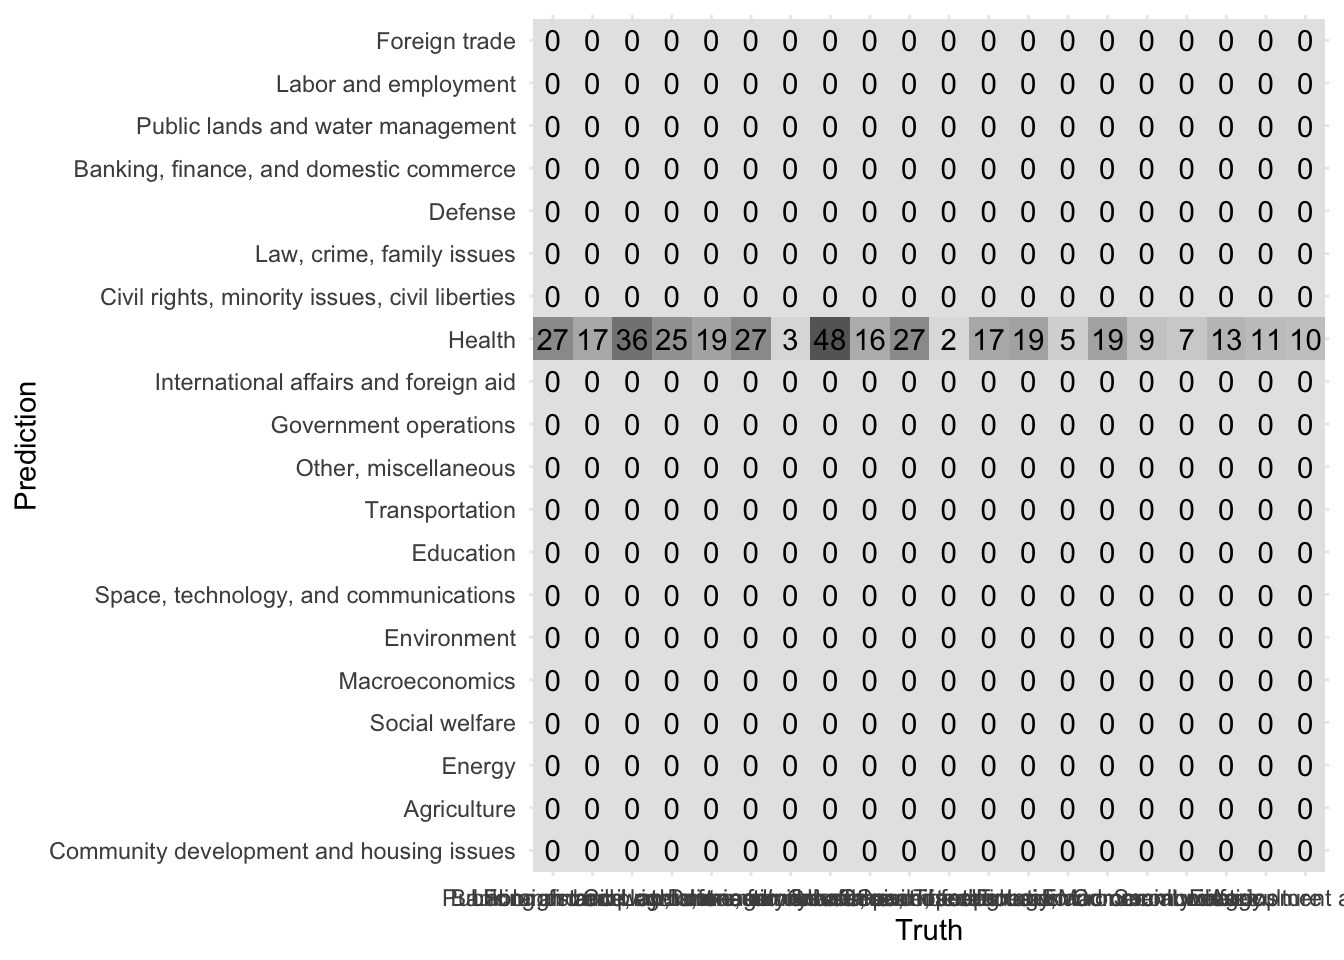
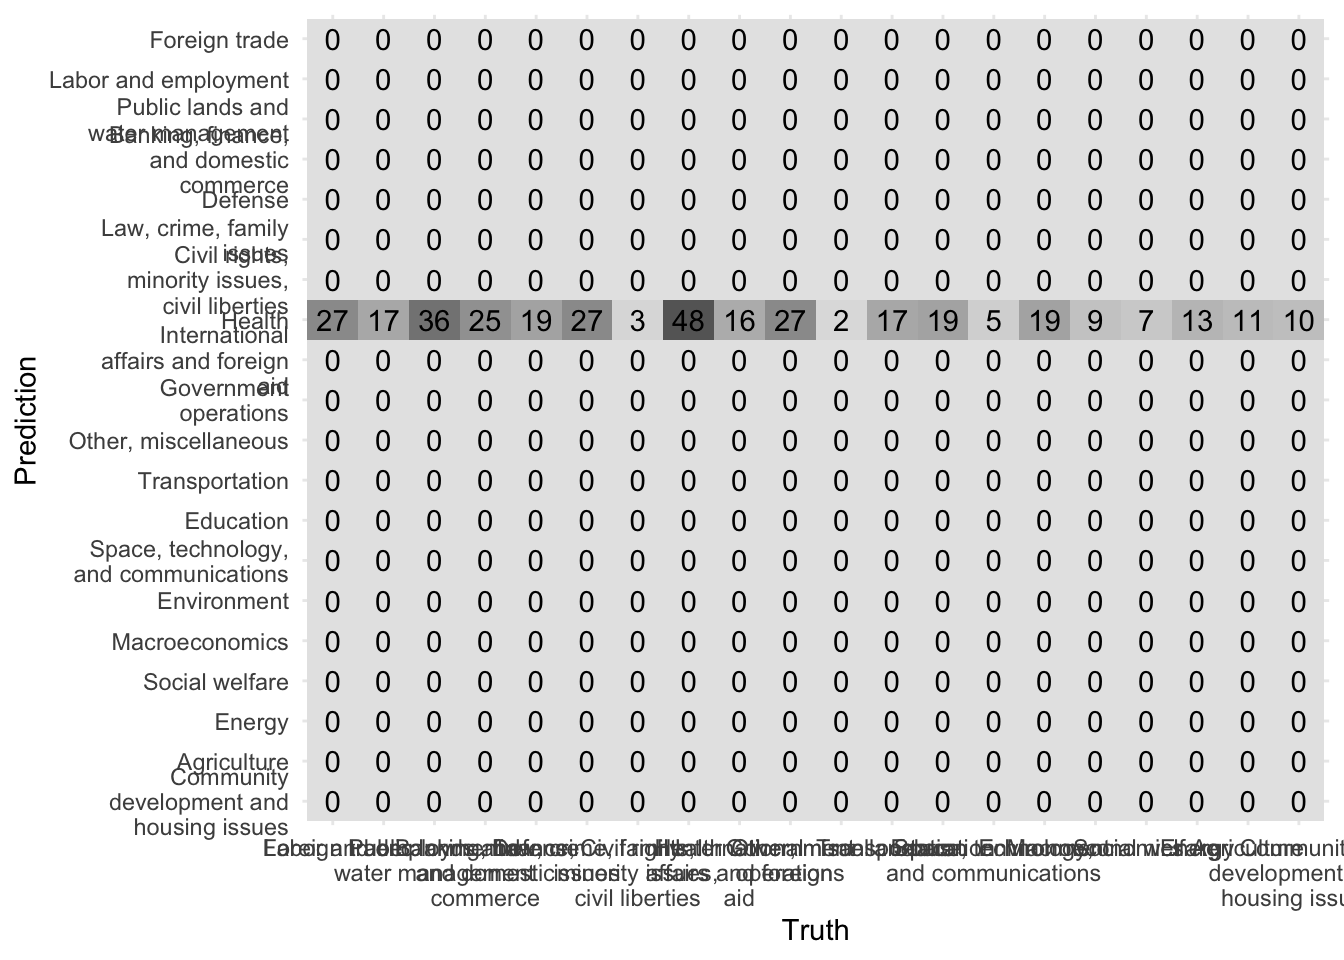
Adjust font size on plot

diff --git a/content/notes/supervised-text-classification/index.md b/content/notes/supervised-text-classification/index.md
@@ -404,7 +404,9 @@ Another way to evaluate our model is to evaluate the [confusion matrix](https://
 nb_cv_predictions %>%
   filter(id == "Fold01") %>%
   conf_mat(major, .pred_class) %>%
-  autoplot(type = "heatmap")
+  autoplot(type = "heatmap") +
+  scale_y_discrete(labels = function(x) str_wrap(x, 20)) +
+  scale_x_discrete(labels = function(x) str_wrap(x, 20))
 ```
 
 <img src="{{< blogdown/postref >}}index_files/figure-html/nb-confusion-1.png" width="672" />
@@ -694,161 +696,164 @@ devtools::session_info()
 ```
 ## ─ Session info ───────────────────────────────────────────────────────────────
 ##  setting  value                       
-##  version  R version 4.0.3 (2020-10-10)
-##  os       macOS Catalina 10.15.7      
+##  version  R version 4.0.4 (2021-02-15)
+##  os       macOS Big Sur 10.16         
 ##  system   x86_64, darwin17.0          
 ##  ui       X11                         
 ##  language (EN)                        
 ##  collate  en_US.UTF-8                 
 ##  ctype    en_US.UTF-8                 
 ##  tz       America/Chicago             
-##  date     2021-03-01                  
+##  date     2021-03-10                  
 ## 
 ## ─ Packages ───────────────────────────────────────────────────────────────────
-##  package      * version    date       lib source                              
-##  assertthat     0.2.1      2019-03-21 [1] CRAN (R 4.0.0)                      
-##  backports      1.2.1      2020-12-09 [1] CRAN (R 4.0.2)                      
-##  BBmisc         1.11       2017-03-10 [1] CRAN (R 4.0.0)                      
-##  blogdown       1.1        2021-01-19 [1] CRAN (R 4.0.3)                      
-##  bookdown       0.21       2020-10-13 [1] CRAN (R 4.0.2)                      
-##  broom        * 0.7.3      2020-12-16 [1] CRAN (R 4.0.2)                      
-##  callr          3.5.1      2020-10-13 [1] CRAN (R 4.0.2)                      
-##  caret        * 6.0-86     2020-03-20 [1] CRAN (R 4.0.0)                      
-##  cellranger     1.1.0      2016-07-27 [1] CRAN (R 4.0.0)                      
-##  checkmate      2.0.0      2020-02-06 [1] CRAN (R 4.0.0)                      
-##  class          7.3-17     2020-04-26 [1] CRAN (R 4.0.3)                      
-##  cli            2.3.1      2021-02-23 [1] CRAN (R 4.0.3)                      
-##  codetools      0.2-18     2020-11-04 [1] CRAN (R 4.0.2)                      
-##  colorspace     2.0-0      2020-11-11 [1] CRAN (R 4.0.2)                      
-##  crayon         1.4.1      2021-02-08 [1] CRAN (R 4.0.2)                      
-##  data.table     1.13.6     2020-12-30 [1] CRAN (R 4.0.2)                      
-##  DBI            1.1.0      2019-12-15 [1] CRAN (R 4.0.0)                      
-##  dbplyr         2.0.0      2020-11-03 [1] CRAN (R 4.0.2)                      
-##  debugme        1.1.0      2017-10-22 [1] CRAN (R 4.0.0)                      
-##  desc           1.2.0      2018-05-01 [1] CRAN (R 4.0.0)                      
-##  devtools       2.3.2      2020-09-18 [1] CRAN (R 4.0.2)                      
-##  dials        * 0.0.9      2020-09-16 [1] CRAN (R 4.0.2)                      
-##  DiceDesign     1.8-1      2019-07-31 [1] CRAN (R 4.0.0)                      
-##  digest         0.6.27     2020-10-24 [1] CRAN (R 4.0.2)                      
-##  discrim      * 0.1.1      2020-10-28 [1] CRAN (R 4.0.2)                      
-##  doParallel     1.0.16     2020-10-16 [1] CRAN (R 4.0.2)                      
-##  dplyr        * 1.0.4      2021-02-02 [1] CRAN (R 4.0.2)                      
-##  ellipsis       0.3.1      2020-05-15 [1] CRAN (R 4.0.0)                      
-##  evaluate       0.14       2019-05-28 [1] CRAN (R 4.0.0)                      
-##  fansi          0.4.2      2021-01-15 [1] CRAN (R 4.0.2)                      
-##  farver         2.0.3      2020-01-16 [1] CRAN (R 4.0.0)                      
-##  fastmatch      1.1-0      2017-01-28 [1] CRAN (R 4.0.0)                      
-##  FNN            1.1.3      2019-02-15 [1] CRAN (R 4.0.0)                      
-##  forcats      * 0.5.0      2020-03-01 [1] CRAN (R 4.0.0)                      
-##  foreach        1.5.1      2020-10-15 [1] CRAN (R 4.0.2)                      
-##  fs             1.5.0      2020-07-31 [1] CRAN (R 4.0.2)                      
-##  furrr          0.2.1      2020-10-21 [1] CRAN (R 4.0.2)                      
-##  future         1.21.0     2020-12-10 [1] CRAN (R 4.0.2)                      
-##  generics       0.1.0      2020-10-31 [1] CRAN (R 4.0.2)                      
-##  ggplot2      * 3.3.3      2020-12-30 [1] CRAN (R 4.0.2)                      
-##  globals        0.14.0     2020-11-22 [1] CRAN (R 4.0.2)                      
-##  glue           1.4.2      2020-08-27 [1] CRAN (R 4.0.2)                      
-##  gower          0.2.2      2020-06-23 [1] CRAN (R 4.0.2)                      
-##  GPfit          1.0-8      2019-02-08 [1] CRAN (R 4.0.0)                      
-##  gtable         0.3.0      2019-03-25 [1] CRAN (R 4.0.0)                      
-##  hardhat        0.1.5      2020-11-09 [1] CRAN (R 4.0.2)                      
-##  haven          2.3.1      2020-06-01 [1] CRAN (R 4.0.0)                      
-##  here           1.0.1      2020-12-13 [1] CRAN (R 4.0.2)                      
-##  highr          0.8        2019-03-20 [1] CRAN (R 4.0.0)                      
-##  hms            0.5.3      2020-01-08 [1] CRAN (R 4.0.0)                      
-##  htmltools      0.5.1.1    2021-01-22 [1] CRAN (R 4.0.2)                      
-##  httr           1.4.2      2020-07-20 [1] CRAN (R 4.0.2)                      
-##  infer        * 0.5.3      2020-07-14 [1] CRAN (R 4.0.2)                      
-##  ipred          0.9-9      2019-04-28 [1] CRAN (R 4.0.0)                      
-##  iterators      1.0.13     2020-10-15 [1] CRAN (R 4.0.2)                      
-##  janeaustenr    0.1.5      2017-06-10 [1] CRAN (R 4.0.0)                      
-##  jsonlite       1.7.2      2020-12-09 [1] CRAN (R 4.0.2)                      
-##  knitr          1.31       2021-01-27 [1] CRAN (R 4.0.2)                      
-##  labeling       0.4.2      2020-10-20 [1] CRAN (R 4.0.2)                      
-##  lattice      * 0.20-41    2020-04-02 [1] CRAN (R 4.0.3)                      
-##  lava           1.6.8.1    2020-11-04 [1] CRAN (R 4.0.2)                      
-##  lhs            1.1.1      2020-10-05 [1] CRAN (R 4.0.2)                      
-##  lifecycle      1.0.0      2021-02-15 [1] CRAN (R 4.0.2)                      
-##  liquidSVM    * 1.2.4      2019-09-14 [1] CRAN (R 4.0.3)                      
-##  listenv        0.8.0      2019-12-05 [1] CRAN (R 4.0.0)                      
-##  lubridate      1.7.9.2    2021-01-18 [1] Github (tidyverse/lubridate@aab2e30)
-##  magrittr       2.0.1      2020-11-17 [1] CRAN (R 4.0.2)                      
-##  MASS           7.3-53     2020-09-09 [1] CRAN (R 4.0.3)                      
-##  Matrix         1.3-0      2020-12-22 [1] CRAN (R 4.0.2)                      
-##  memoise        1.1.0      2017-04-21 [1] CRAN (R 4.0.0)                      
-##  mlr            2.18.0     2020-10-05 [1] CRAN (R 4.0.2)                      
-##  modeldata    * 0.1.0      2020-10-22 [1] CRAN (R 4.0.2)                      
-##  ModelMetrics   1.2.2.2    2020-03-17 [1] CRAN (R 4.0.0)                      
-##  modelr         0.1.8      2020-05-19 [1] CRAN (R 4.0.0)                      
-##  munsell        0.5.0      2018-06-12 [1] CRAN (R 4.0.0)                      
-##  naivebayes   * 0.9.7      2020-03-08 [1] CRAN (R 4.0.0)                      
-##  nlme           3.1-151    2020-12-10 [1] CRAN (R 4.0.2)                      
-##  NLP          * 0.2-1      2020-10-14 [1] CRAN (R 4.0.2)                      
-##  nnet           7.3-14     2020-04-26 [1] CRAN (R 4.0.3)                      
-##  parallelly     1.22.0     2020-12-13 [1] CRAN (R 4.0.2)                      
-##  parallelMap    1.5.0      2020-03-26 [1] CRAN (R 4.0.0)                      
-##  ParamHelpers   1.14       2020-03-24 [1] CRAN (R 4.0.0)                      
-##  parsnip      * 0.1.4      2020-10-27 [1] CRAN (R 4.0.2)                      
-##  pillar         1.5.0      2021-02-22 [1] CRAN (R 4.0.3)                      
-##  pkgbuild       1.2.0      2020-12-15 [1] CRAN (R 4.0.2)                      
-##  pkgconfig      2.0.3      2019-09-22 [1] CRAN (R 4.0.0)                      
-##  pkgload        1.1.0      2020-05-29 [1] CRAN (R 4.0.2)                      
-##  plyr           1.8.6      2020-03-03 [1] CRAN (R 4.0.0)                      
-##  prettyunits    1.1.1      2020-01-24 [1] CRAN (R 4.0.0)                      
-##  pROC           1.16.2     2020-03-19 [1] CRAN (R 4.0.0)                      
-##  processx       3.4.5      2020-11-30 [1] CRAN (R 4.0.2)                      
-##  prodlim        2019.11.13 2019-11-17 [1] CRAN (R 4.0.0)                      
-##  ps             1.5.0      2020-12-05 [1] CRAN (R 4.0.2)                      
-##  purrr        * 0.3.4      2020-04-17 [1] CRAN (R 4.0.0)                      
-##  R6             2.5.0      2020-10-28 [1] CRAN (R 4.0.2)                      
-##  RANN           2.6.1      2019-01-08 [1] CRAN (R 4.0.0)                      
-##  Rcpp           1.0.6      2021-01-15 [1] CRAN (R 4.0.2)                      
-##  readr        * 1.4.0      2020-10-05 [1] CRAN (R 4.0.2)                      
-##  readxl         1.3.1      2019-03-13 [1] CRAN (R 4.0.0)                      
-##  recipes      * 0.1.15     2020-11-11 [1] CRAN (R 4.0.2)                      
-##  remotes        2.2.0      2020-07-21 [1] CRAN (R 4.0.2)                      
-##  reprex         1.0.0      2021-01-27 [1] CRAN (R 4.0.2)                      
-##  reshape2       1.4.4      2020-04-09 [1] CRAN (R 4.0.0)                      
-##  rlang        * 0.4.10     2020-12-30 [1] CRAN (R 4.0.2)                      
-##  rmarkdown      2.6        2020-12-14 [1] CRAN (R 4.0.2)                      
-##  ROSE           0.0-3      2014-07-15 [1] CRAN (R 4.0.2)                      
-##  rpart          4.1-15     2019-04-12 [1] CRAN (R 4.0.3)                      
-##  rprojroot      2.0.2      2020-11-15 [1] CRAN (R 4.0.2)                      
-##  rsample      * 0.0.8      2020-09-23 [1] CRAN (R 4.0.2)                      
-##  rstudioapi     0.13       2020-11-12 [1] CRAN (R 4.0.2)                      
-##  rvest          0.3.6      2020-07-25 [1] CRAN (R 4.0.2)                      
-##  scales       * 1.1.1      2020-05-11 [1] CRAN (R 4.0.0)                      
-##  sessioninfo    1.1.1      2018-11-05 [1] CRAN (R 4.0.0)                      
-##  slam           0.1-48     2020-12-03 [1] CRAN (R 4.0.2)                      
-##  SnowballC      0.7.0      2020-04-01 [1] CRAN (R 4.0.0)                      
-##  stopwords    * 2.1        2020-12-08 [1] CRAN (R 4.0.2)                      
-##  stringi        1.5.3      2020-09-09 [1] CRAN (R 4.0.2)                      
-##  stringr      * 1.4.0      2019-02-10 [1] CRAN (R 4.0.0)                      
-##  survival       3.2-7      2020-09-28 [1] CRAN (R 4.0.3)                      
-##  testthat       3.0.2      2021-02-14 [1] CRAN (R 4.0.2)                      
-##  textrecipes  * 0.4.0      2020-11-12 [1] CRAN (R 4.0.2)                      
-##  themis       * 0.1.3      2020-11-12 [1] CRAN (R 4.0.2)                      
-##  tibble       * 3.0.6      2021-01-29 [1] CRAN (R 4.0.2)                      
-##  tictoc       * 1.0        2014-06-17 [1] CRAN (R 4.0.0)                      
-##  tidymodels   * 0.1.2      2020-11-22 [1] CRAN (R 4.0.2)                      
-##  tidyr        * 1.1.2      2020-08-27 [1] CRAN (R 4.0.2)                      
-##  tidyselect     1.1.0      2020-05-11 [1] CRAN (R 4.0.0)                      
-##  tidytext     * 0.2.6      2020-09-20 [1] CRAN (R 4.0.2)                      
-##  tidyverse    * 1.3.0      2019-11-21 [1] CRAN (R 4.0.0)                      
-##  timeDate       3043.102   2018-02-21 [1] CRAN (R 4.0.0)                      
-##  tm           * 0.7-8      2020-11-18 [1] CRAN (R 4.0.2)                      
-##  tokenizers     0.2.1      2018-03-29 [1] CRAN (R 4.0.0)                      
-##  tune         * 0.1.2      2020-11-17 [1] CRAN (R 4.0.2)                      
-##  unbalanced     2.0        2015-06-26 [1] CRAN (R 4.0.2)                      
-##  usethis        2.0.0      2020-12-10 [1] CRAN (R 4.0.2)                      
-##  utf8           1.1.4      2018-05-24 [1] CRAN (R 4.0.0)                      
-##  vctrs        * 0.3.6      2020-12-17 [1] CRAN (R 4.0.2)                      
-##  withr          2.4.1      2021-01-26 [1] CRAN (R 4.0.2)                      
-##  workflows    * 0.2.1      2020-10-08 [1] CRAN (R 4.0.2)                      
-##  xfun           0.21       2021-02-10 [1] CRAN (R 4.0.2)                      
-##  xml2           1.3.2      2020-04-23 [1] CRAN (R 4.0.0)                      
-##  yaml           2.2.1      2020-02-01 [1] CRAN (R 4.0.0)                      
-##  yardstick    * 0.0.7      2020-07-13 [1] CRAN (R 4.0.2)                      
+##  package      * version    date       lib source        
+##  assertthat     0.2.1      2019-03-21 [1] CRAN (R 4.0.0)
+##  backports      1.2.1      2020-12-09 [1] CRAN (R 4.0.2)
+##  BBmisc         1.11       2017-03-10 [1] CRAN (R 4.0.0)
+##  blogdown       1.2        2021-03-04 [1] CRAN (R 4.0.3)
+##  bookdown       0.21       2020-10-13 [1] CRAN (R 4.0.2)
+##  broom        * 0.7.5      2021-02-19 [1] CRAN (R 4.0.2)
+##  bslib          0.2.4      2021-01-25 [1] CRAN (R 4.0.2)
+##  cachem         1.0.4      2021-02-13 [1] CRAN (R 4.0.2)
+##  callr          3.5.1      2020-10-13 [1] CRAN (R 4.0.2)
+##  caret        * 6.0-86     2020-03-20 [1] CRAN (R 4.0.0)
+##  cellranger     1.1.0      2016-07-27 [1] CRAN (R 4.0.0)
+##  checkmate      2.0.0      2020-02-06 [1] CRAN (R 4.0.0)
+##  class          7.3-18     2021-01-24 [1] CRAN (R 4.0.4)
+##  cli            2.3.1      2021-02-23 [1] CRAN (R 4.0.3)
+##  codetools      0.2-18     2020-11-04 [1] CRAN (R 4.0.4)
+##  colorspace     2.0-0      2020-11-11 [1] CRAN (R 4.0.2)
+##  crayon         1.4.1      2021-02-08 [1] CRAN (R 4.0.2)
+##  data.table     1.14.0     2021-02-21 [1] CRAN (R 4.0.2)
+##  DBI            1.1.1      2021-01-15 [1] CRAN (R 4.0.2)
+##  dbplyr         2.1.0      2021-02-03 [1] CRAN (R 4.0.2)
+##  debugme        1.1.0      2017-10-22 [1] CRAN (R 4.0.0)
+##  desc           1.2.0      2018-05-01 [1] CRAN (R 4.0.0)
+##  devtools       2.3.2      2020-09-18 [1] CRAN (R 4.0.2)
+##  dials        * 0.0.9      2020-09-16 [1] CRAN (R 4.0.2)
+##  DiceDesign     1.9        2021-02-13 [1] CRAN (R 4.0.2)
+##  digest         0.6.27     2020-10-24 [1] CRAN (R 4.0.2)
+##  discrim      * 0.1.1      2020-10-28 [1] CRAN (R 4.0.2)
+##  doParallel     1.0.16     2020-10-16 [1] CRAN (R 4.0.2)
+##  dplyr        * 1.0.5      2021-03-05 [1] CRAN (R 4.0.3)
+##  ellipsis       0.3.1      2020-05-15 [1] CRAN (R 4.0.0)
+##  evaluate       0.14       2019-05-28 [1] CRAN (R 4.0.0)
+##  fansi          0.4.2      2021-01-15 [1] CRAN (R 4.0.2)
+##  farver         2.1.0      2021-02-28 [1] CRAN (R 4.0.2)
+##  fastmap        1.1.0      2021-01-25 [1] CRAN (R 4.0.2)
+##  fastmatch      1.1-0      2017-01-28 [1] CRAN (R 4.0.0)
+##  FNN            1.1.3      2019-02-15 [1] CRAN (R 4.0.0)
+##  forcats      * 0.5.1      2021-01-27 [1] CRAN (R 4.0.2)
+##  foreach        1.5.1      2020-10-15 [1] CRAN (R 4.0.2)
+##  fs             1.5.0      2020-07-31 [1] CRAN (R 4.0.2)
+##  furrr          0.2.2      2021-01-29 [1] CRAN (R 4.0.2)
+##  future         1.21.0     2020-12-10 [1] CRAN (R 4.0.2)
+##  generics       0.1.0      2020-10-31 [1] CRAN (R 4.0.2)
+##  ggplot2      * 3.3.3      2020-12-30 [1] CRAN (R 4.0.2)
+##  globals        0.14.0     2020-11-22 [1] CRAN (R 4.0.2)
+##  glue           1.4.2      2020-08-27 [1] CRAN (R 4.0.2)
+##  gower          0.2.2      2020-06-23 [1] CRAN (R 4.0.2)
+##  GPfit          1.0-8      2019-02-08 [1] CRAN (R 4.0.0)
+##  gtable         0.3.0      2019-03-25 [1] CRAN (R 4.0.0)
+##  haven          2.3.1      2020-06-01 [1] CRAN (R 4.0.0)
+##  here           1.0.1      2020-12-13 [1] CRAN (R 4.0.2)
+##  highr          0.8        2019-03-20 [1] CRAN (R 4.0.0)
+##  hms            1.0.0      2021-01-13 [1] CRAN (R 4.0.2)
+##  htmltools      0.5.1.1    2021-01-22 [1] CRAN (R 4.0.2)
+##  httr           1.4.2      2020-07-20 [1] CRAN (R 4.0.2)
+##  infer        * 0.5.4      2021-01-13 [1] CRAN (R 4.0.2)
+##  ipred          0.9-10     2021-03-04 [1] CRAN (R 4.0.2)
+##  iterators      1.0.13     2020-10-15 [1] CRAN (R 4.0.2)
+##  janeaustenr    0.1.5      2017-06-10 [1] CRAN (R 4.0.0)
+##  jquerylib      0.1.3      2020-12-17 [1] CRAN (R 4.0.2)
+##  jsonlite       1.7.2      2020-12-09 [1] CRAN (R 4.0.2)
+##  knitr          1.31       2021-01-27 [1] CRAN (R 4.0.2)
+##  lattice      * 0.20-41    2020-04-02 [1] CRAN (R 4.0.4)
+##  lava           1.6.8.1    2020-11-04 [1] CRAN (R 4.0.2)
+##  lhs            1.1.1      2020-10-05 [1] CRAN (R 4.0.2)
+##  lifecycle      1.0.0      2021-02-15 [1] CRAN (R 4.0.2)
+##  liquidSVM    * 1.2.4      2019-09-14 [1] CRAN (R 4.0.3)
+##  listenv        0.8.0      2019-12-05 [1] CRAN (R 4.0.0)
+##  lubridate      1.7.10     2021-02-26 [1] CRAN (R 4.0.2)
+##  magrittr       2.0.1      2020-11-17 [1] CRAN (R 4.0.2)
+##  MASS           7.3-53     2020-09-09 [1] CRAN (R 4.0.4)
+##  Matrix         1.3-2      2021-01-06 [1] CRAN (R 4.0.4)
+##  memoise        2.0.0      2021-01-26 [1] CRAN (R 4.0.2)
+##  mlr            2.19.0     2021-02-22 [1] CRAN (R 4.0.2)
+##  modeldata    * 0.1.0      2020-10-22 [1] CRAN (R 4.0.2)
+##  ModelMetrics   1.2.2.2    2020-03-17 [1] CRAN (R 4.0.0)
+##  modelr         0.1.8      2020-05-19 [1] CRAN (R 4.0.0)
+##  munsell        0.5.0      2018-06-12 [1] CRAN (R 4.0.0)
+##  naivebayes   * 0.9.7      2020-03-08 [1] CRAN (R 4.0.0)
+##  nlme           3.1-152    2021-02-04 [1] CRAN (R 4.0.4)
+##  NLP          * 0.2-1      2020-10-14 [1] CRAN (R 4.0.2)
+##  nnet           7.3-15     2021-01-24 [1] CRAN (R 4.0.4)
+##  parallelly     1.23.0     2021-01-04 [1] CRAN (R 4.0.2)
+##  parallelMap    1.5.0      2020-03-26 [1] CRAN (R 4.0.0)
+##  ParamHelpers   1.14       2020-03-24 [1] CRAN (R 4.0.0)
+##  parsnip      * 0.1.5      2021-01-19 [1] CRAN (R 4.0.2)
+##  pillar         1.5.1      2021-03-05 [1] CRAN (R 4.0.3)
+##  pkgbuild       1.2.0      2020-12-15 [1] CRAN (R 4.0.2)
+##  pkgconfig      2.0.3      2019-09-22 [1] CRAN (R 4.0.0)
+##  pkgload        1.2.0      2021-02-23 [1] CRAN (R 4.0.2)
+##  plyr           1.8.6      2020-03-03 [1] CRAN (R 4.0.0)
+##  prettyunits    1.1.1      2020-01-24 [1] CRAN (R 4.0.0)
+##  pROC           1.17.0.1   2021-01-13 [1] CRAN (R 4.0.2)
+##  processx       3.4.5      2020-11-30 [1] CRAN (R 4.0.2)
+##  prodlim        2019.11.13 2019-11-17 [1] CRAN (R 4.0.0)
+##  ps             1.6.0      2021-02-28 [1] CRAN (R 4.0.2)
+##  purrr        * 0.3.4      2020-04-17 [1] CRAN (R 4.0.0)
+##  R6             2.5.0      2020-10-28 [1] CRAN (R 4.0.2)
+##  RANN           2.6.1      2019-01-08 [1] CRAN (R 4.0.0)
+##  Rcpp           1.0.6      2021-01-15 [1] CRAN (R 4.0.2)
+##  readr        * 1.4.0      2020-10-05 [1] CRAN (R 4.0.2)
+##  readxl         1.3.1      2019-03-13 [1] CRAN (R 4.0.0)
+##  recipes      * 0.1.15     2020-11-11 [1] CRAN (R 4.0.2)
+##  remotes        2.2.0      2020-07-21 [1] CRAN (R 4.0.2)
+##  reprex         1.0.0      2021-01-27 [1] CRAN (R 4.0.2)
+##  reshape2       1.4.4      2020-04-09 [1] CRAN (R 4.0.0)
+##  rlang        * 0.4.10     2020-12-30 [1] CRAN (R 4.0.2)
+##  rmarkdown      2.7        2021-02-19 [1] CRAN (R 4.0.2)
+##  ROSE           0.0-3      2014-07-15 [1] CRAN (R 4.0.2)
+##  rpart          4.1-15     2019-04-12 [1] CRAN (R 4.0.4)
+##  rprojroot      2.0.2      2020-11-15 [1] CRAN (R 4.0.2)
+##  rsample      * 0.0.9      2021-02-17 [1] CRAN (R 4.0.2)
+##  rstudioapi     0.13       2020-11-12 [1] CRAN (R 4.0.2)
+##  rvest          0.3.6      2020-07-25 [1] CRAN (R 4.0.2)
+##  sass           0.3.1      2021-01-24 [1] CRAN (R 4.0.2)
+##  scales       * 1.1.1      2020-05-11 [1] CRAN (R 4.0.0)
+##  sessioninfo    1.1.1      2018-11-05 [1] CRAN (R 4.0.0)
+##  slam           0.1-48     2020-12-03 [1] CRAN (R 4.0.2)
+##  SnowballC      0.7.0      2020-04-01 [1] CRAN (R 4.0.0)
+##  stopwords    * 2.2        2021-02-10 [1] CRAN (R 4.0.2)
+##  stringi        1.5.3      2020-09-09 [1] CRAN (R 4.0.2)
+##  stringr      * 1.4.0      2019-02-10 [1] CRAN (R 4.0.0)
+##  survival       3.2-7      2020-09-28 [1] CRAN (R 4.0.4)
+##  testthat       3.0.2      2021-02-14 [1] CRAN (R 4.0.2)
+##  textrecipes  * 0.4.0      2020-11-12 [1] CRAN (R 4.0.2)
+##  themis       * 0.1.3      2020-11-12 [1] CRAN (R 4.0.2)
+##  tibble       * 3.1.0      2021-02-25 [1] CRAN (R 4.0.2)
+##  tictoc       * 1.0        2014-06-17 [1] CRAN (R 4.0.0)
+##  tidymodels   * 0.1.2      2020-11-22 [1] CRAN (R 4.0.2)
+##  tidyr        * 1.1.3      2021-03-03 [1] CRAN (R 4.0.2)
+##  tidyselect     1.1.0      2020-05-11 [1] CRAN (R 4.0.0)
+##  tidytext     * 0.3.0      2021-01-06 [1] CRAN (R 4.0.2)
+##  tidyverse    * 1.3.0      2019-11-21 [1] CRAN (R 4.0.0)
+##  timeDate       3043.102   2018-02-21 [1] CRAN (R 4.0.0)
+##  tm           * 0.7-8      2020-11-18 [1] CRAN (R 4.0.2)
+##  tokenizers     0.2.1      2018-03-29 [1] CRAN (R 4.0.0)
+##  tune         * 0.1.3      2021-02-28 [1] CRAN (R 4.0.2)
+##  unbalanced     2.0        2015-06-26 [1] CRAN (R 4.0.2)
+##  usethis        2.0.1      2021-02-10 [1] CRAN (R 4.0.2)
+##  utf8           1.1.4      2018-05-24 [1] CRAN (R 4.0.0)
+##  vctrs        * 0.3.6      2020-12-17 [1] CRAN (R 4.0.2)
+##  withr          2.4.1      2021-01-26 [1] CRAN (R 4.0.2)
+##  workflows    * 0.2.1      2020-10-08 [1] CRAN (R 4.0.2)
+##  xfun           0.21       2021-02-10 [1] CRAN (R 4.0.2)
+##  xml2           1.3.2      2020-04-23 [1] CRAN (R 4.0.0)
+##  yaml           2.2.1      2020-02-01 [1] CRAN (R 4.0.0)
+##  yardstick    * 0.0.7      2020-07-13 [1] CRAN (R 4.0.2)
 ## 
 ## [1] /Library/Frameworks/R.framework/Versions/4.0/Resources/library
 ```
